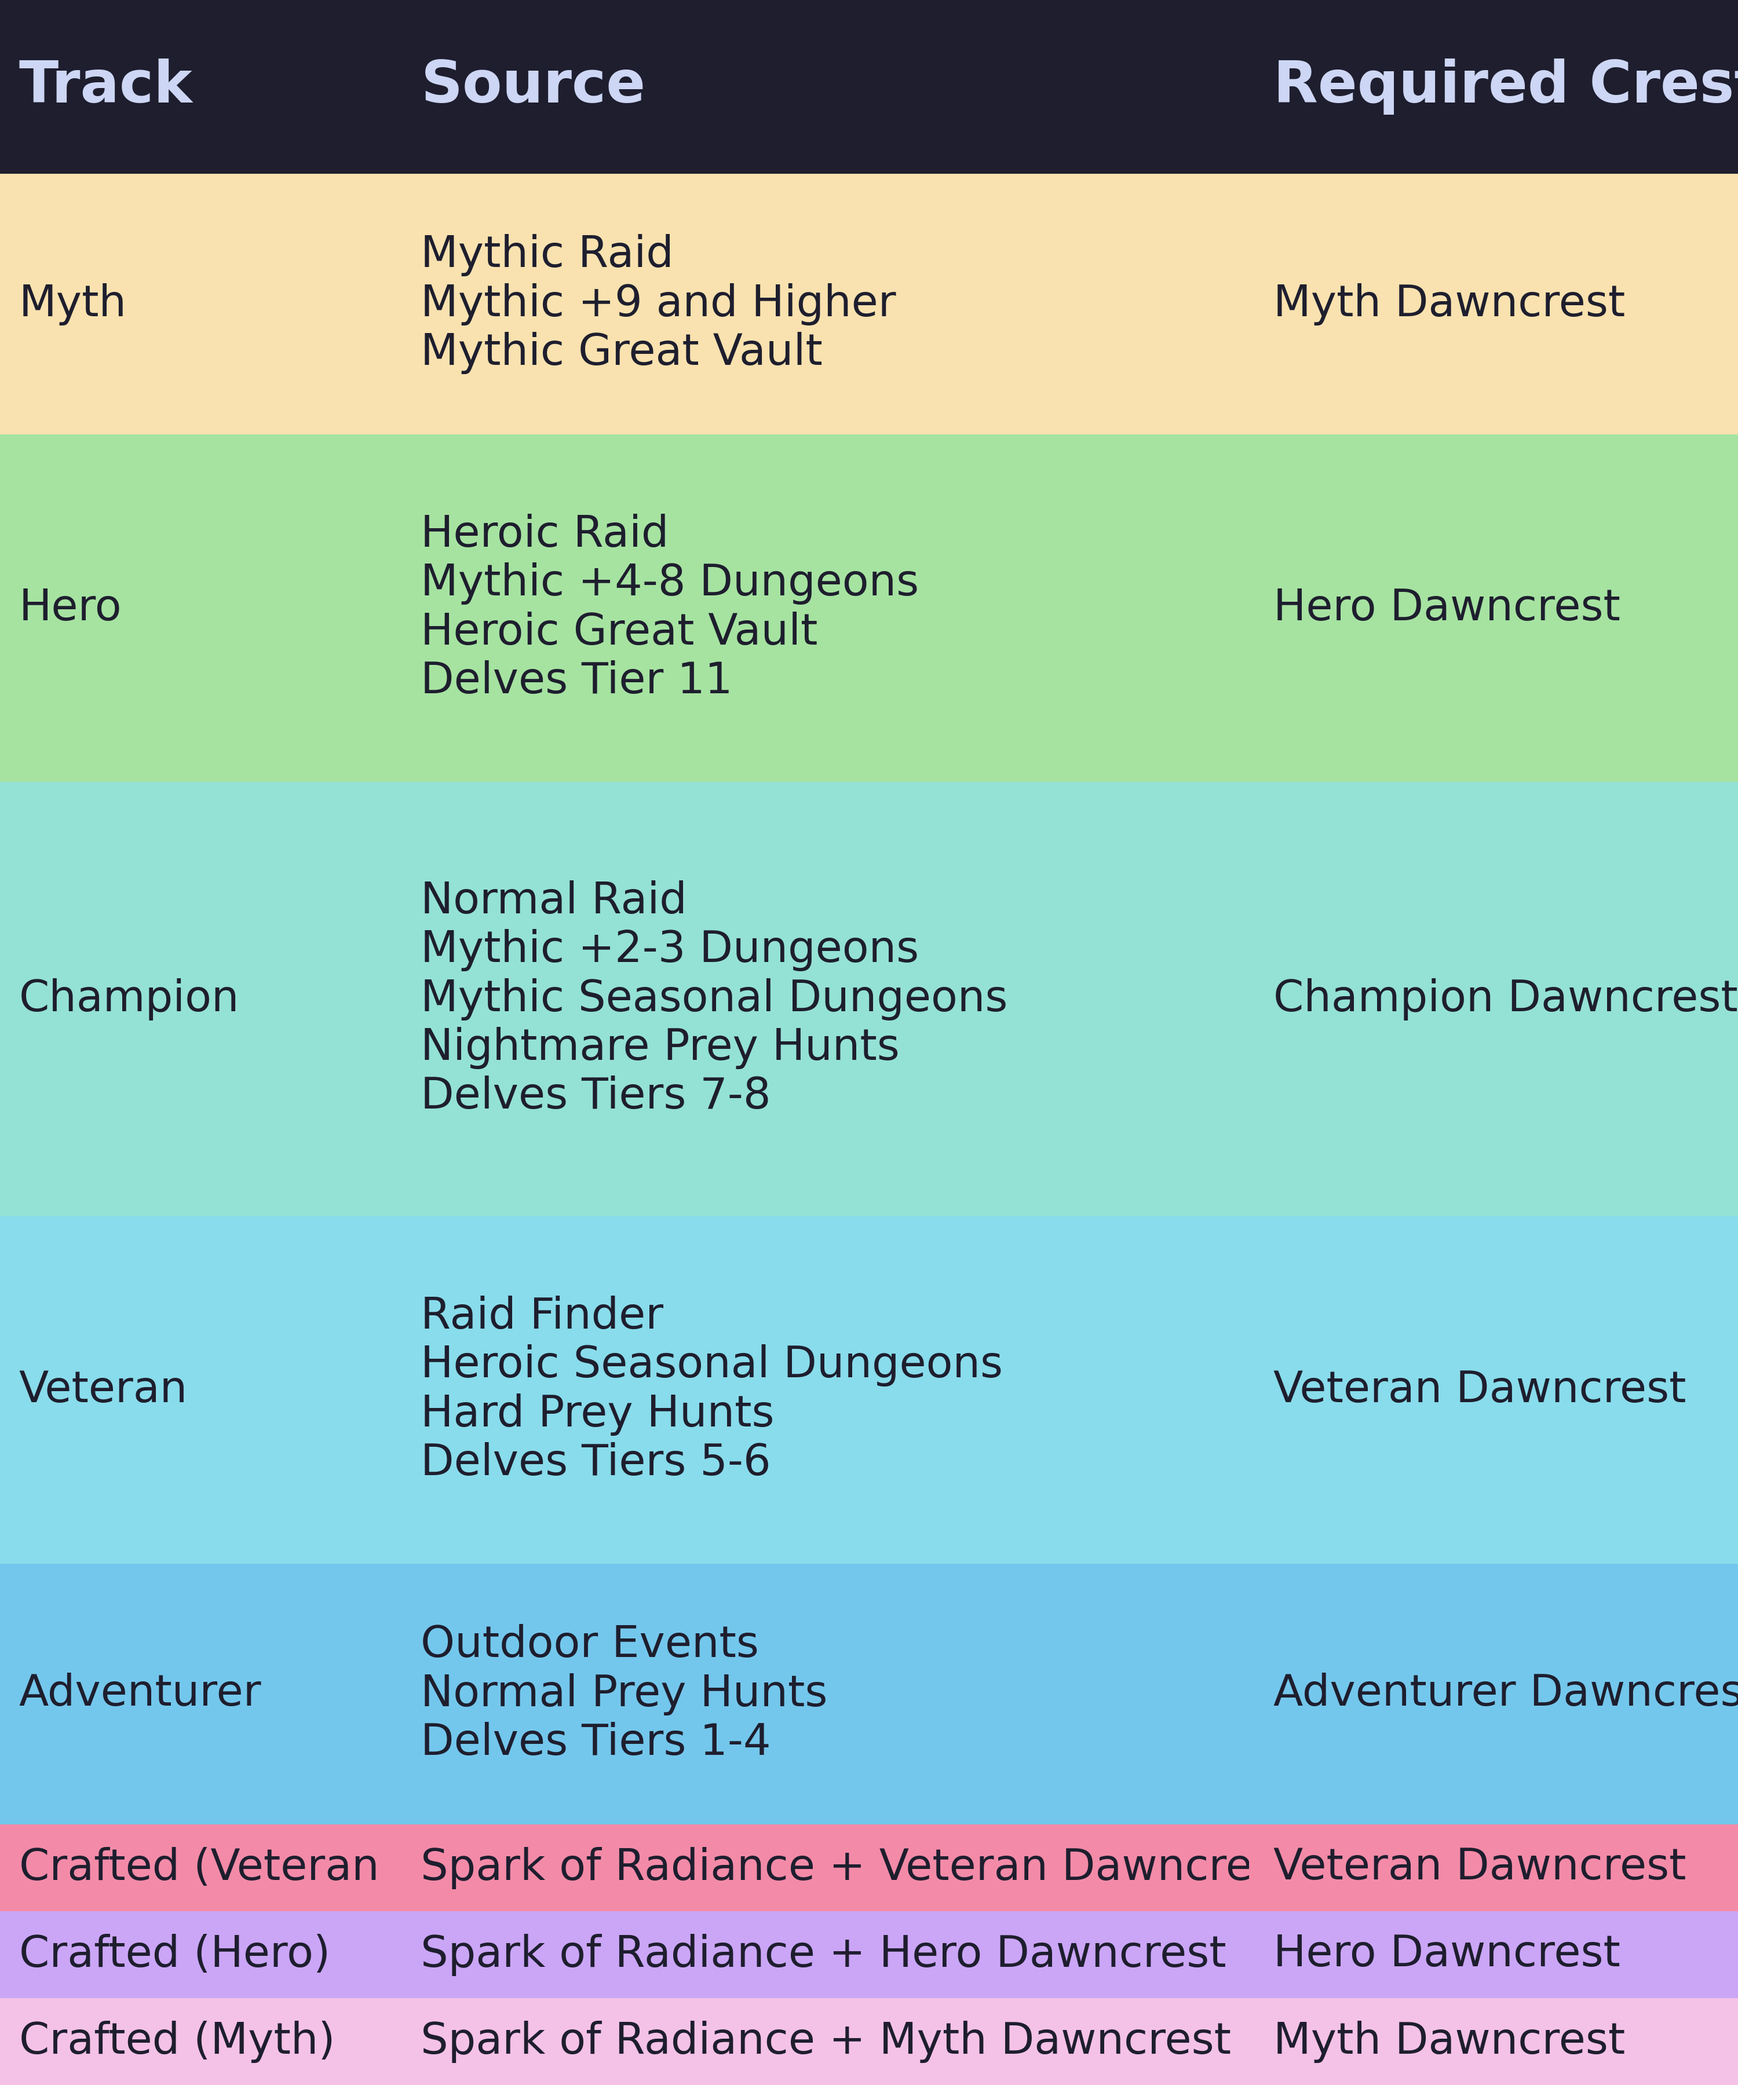
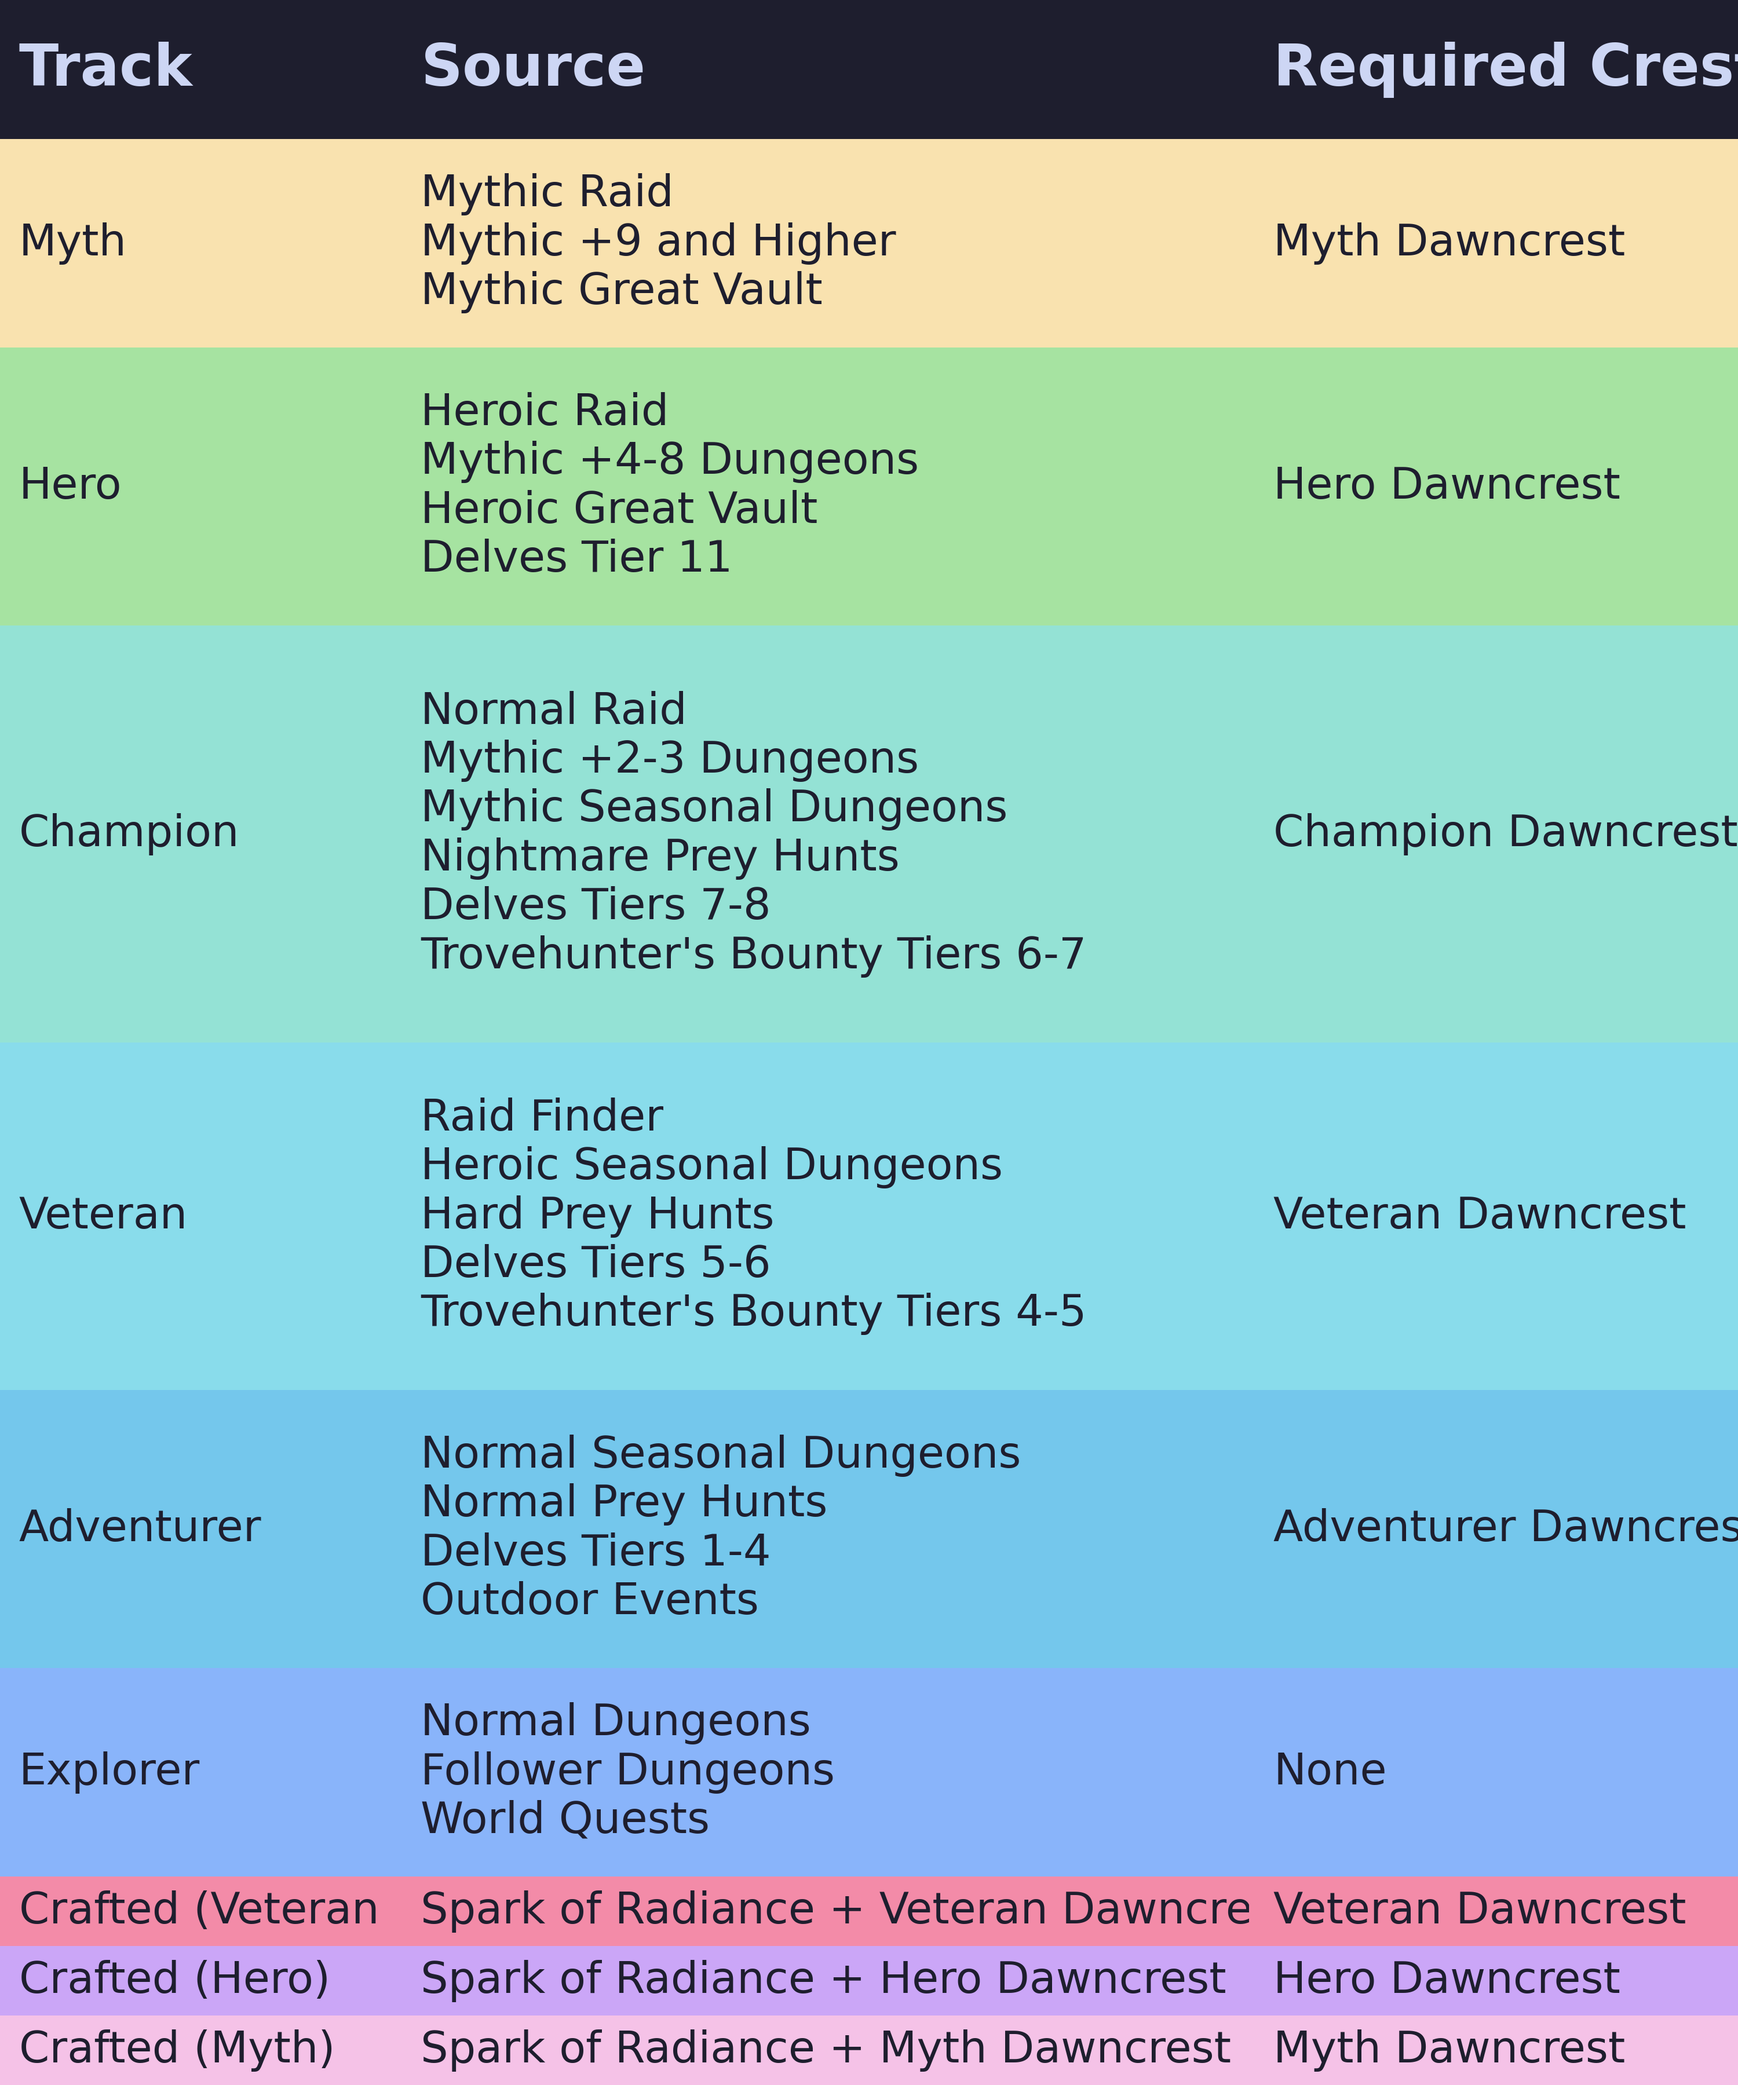
Fix gear data: add Explorer track, correct ilvl ranges, add hunt system
- Add Explorer track back (208-224, no crest needed)
- Fix starting item levels to use rank 1/6 instead of 2/6
- Add Trovehunter's Bounty to Champion and Veteran sources
- Add Prey Hunt tiers (Normal/Hard/Nightmare) to gear sources
- Regenerate all report images

https://claude.ai/code/session_01Xjb9YAoxP2RdR5RvhzsXMH

diff --git a/gear_prog/data.py b/gear_prog/data.py
@@ -28,6 +28,7 @@ colors = {
 }
 
 custom_track_colors = {
+    'Explorer': colors['Blue'],
     'Adventurer': colors['Sapphire'],
     'Veteran': colors['Sky'],
     'Champion': colors['Teal'],
@@ -39,11 +40,12 @@ custom_track_colors = {
 }
 
 gear_score_data = {
-    'Adventurer': {'Starting Item Level': 224, 'Max Item Level': 237},
-    'Veteran': {'Starting Item Level': 237, 'Max Item Level': 250},
-    'Champion': {'Starting Item Level': 250, 'Max Item Level': 263},
-    'Hero': {'Starting Item Level': 263, 'Max Item Level': 276},
-    'Myth': {'Starting Item Level': 276, 'Max Item Level': 289},
+    'Explorer': {'Starting Item Level': 208, 'Max Item Level': 224},
+    'Adventurer': {'Starting Item Level': 220, 'Max Item Level': 237},
+    'Veteran': {'Starting Item Level': 233, 'Max Item Level': 250},
+    'Champion': {'Starting Item Level': 246, 'Max Item Level': 263},
+    'Hero': {'Starting Item Level': 259, 'Max Item Level': 276},
+    'Myth': {'Starting Item Level': 272, 'Max Item Level': 289},
     'Crafted (Veteran)': {'Starting Item Level': 233, 'Max Item Level': 246},
     'Crafted (Hero)': {'Starting Item Level': 259, 'Max Item Level': 272},
     'Crafted (Myth)': {'Starting Item Level': 272, 'Max Item Level': 285},
@@ -74,6 +76,7 @@ gear_source_data = {
             "Mythic Seasonal Dungeons",
             "Nightmare Prey Hunts",
             "Delves Tiers 7-8",
+            "Trovehunter's Bounty Tiers 6-7",
         ],
         "Required Crest": "Champion Dawncrest",
     },
@@ -83,16 +86,26 @@ gear_source_data = {
             "Heroic Seasonal Dungeons",
             "Hard Prey Hunts",
             "Delves Tiers 5-6",
+            "Trovehunter's Bounty Tiers 4-5",
         ],
         "Required Crest": "Veteran Dawncrest",
     },
     "Adventurer": {
         "Source": [
-            "Outdoor Events",
+            "Normal Seasonal Dungeons",
             "Normal Prey Hunts",
             "Delves Tiers 1-4",
+            "Outdoor Events",
         ],
         "Required Crest": "Adventurer Dawncrest",
+    },
+    "Explorer": {
+        "Source": [
+            "Normal Dungeons",
+            "Follower Dungeons",
+            "World Quests",
+        ],
+        "Required Crest": "None",
     },
     "Crafted (Veteran)": {
         "Source": ["Spark of Radiance + Veteran Dawncrest"],
